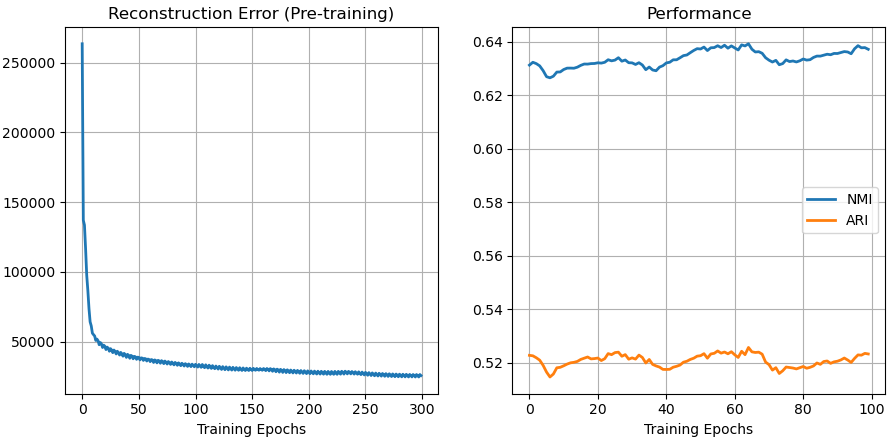
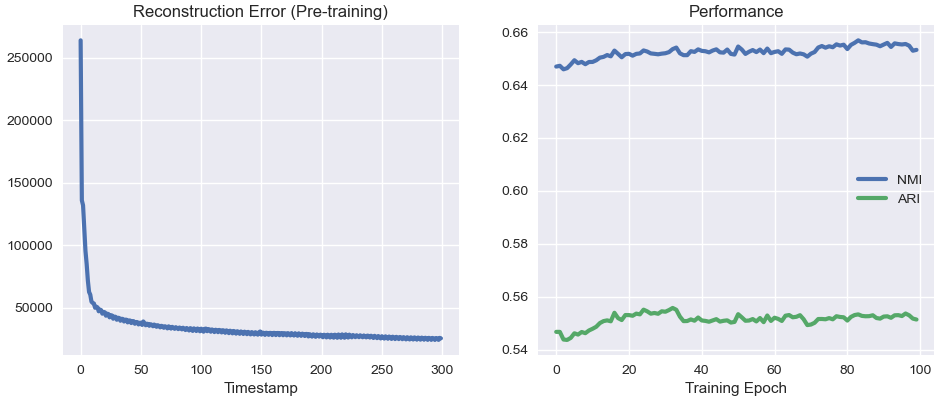
[ENH] Add MNIST exp

diff --git a/mnist.py b/mnist.py
@@ -24,6 +24,7 @@ def evaluate(model, test_loader):
             adjusted_rand_score(y_test, y_pred))
 
 def solver(args, model, train_loader, test_loader):
+    
     rec_loss_list = model.pretrain(train_loader)
     nmi_list = []
     ari_list = []
@@ -33,7 +34,7 @@ def solver(args, model, train_loader, test_loader):
         model.fit(e, train_loader)
         
         model.eval()
-        NMI, ARI = evaluate(model, train_loader)  # evaluation on the train_loader
+        NMI, ARI = evaluate(model, test_loader)  # evaluation on the test_loader
         nmi_list.append(NMI)
         ari_list.append(ARI)
         
@@ -66,11 +67,11 @@ if __name__ == '__main__':
                         help='number of epochs to train')
     parser.add_argument('--pretrain', type=bool, default=True, 
                         help='whether use pre-training')
-
+    
     # Model parameters
     parser.add_argument('--lamda', type=float, default=1, 
                         help='coefficient of the reconstruction loss')
-    parser.add_argument('--beta', type=float, default=0.5, 
+    parser.add_argument('--beta', type=float, default=1, 
                         help='coefficient of the regularization term on ' \
                             'clustering')
     parser.add_argument('--hidden-dims', default=[500, 500, 2000, 10], 

diff --git a/kmeans.py b/kmeans.py
@@ -32,7 +32,7 @@ class batch_KMeans(object):
     def init_cluster(self, X, indices=None):
         """ Generate initial clusters using sklearn.Kmeans """
         model = KMeans(n_clusters=self.n_clusters,
-                       n_init=10)
+                       n_init=20)
         model.fit(X)
         self.clusters = model.cluster_centers_  # copy clusters
     
